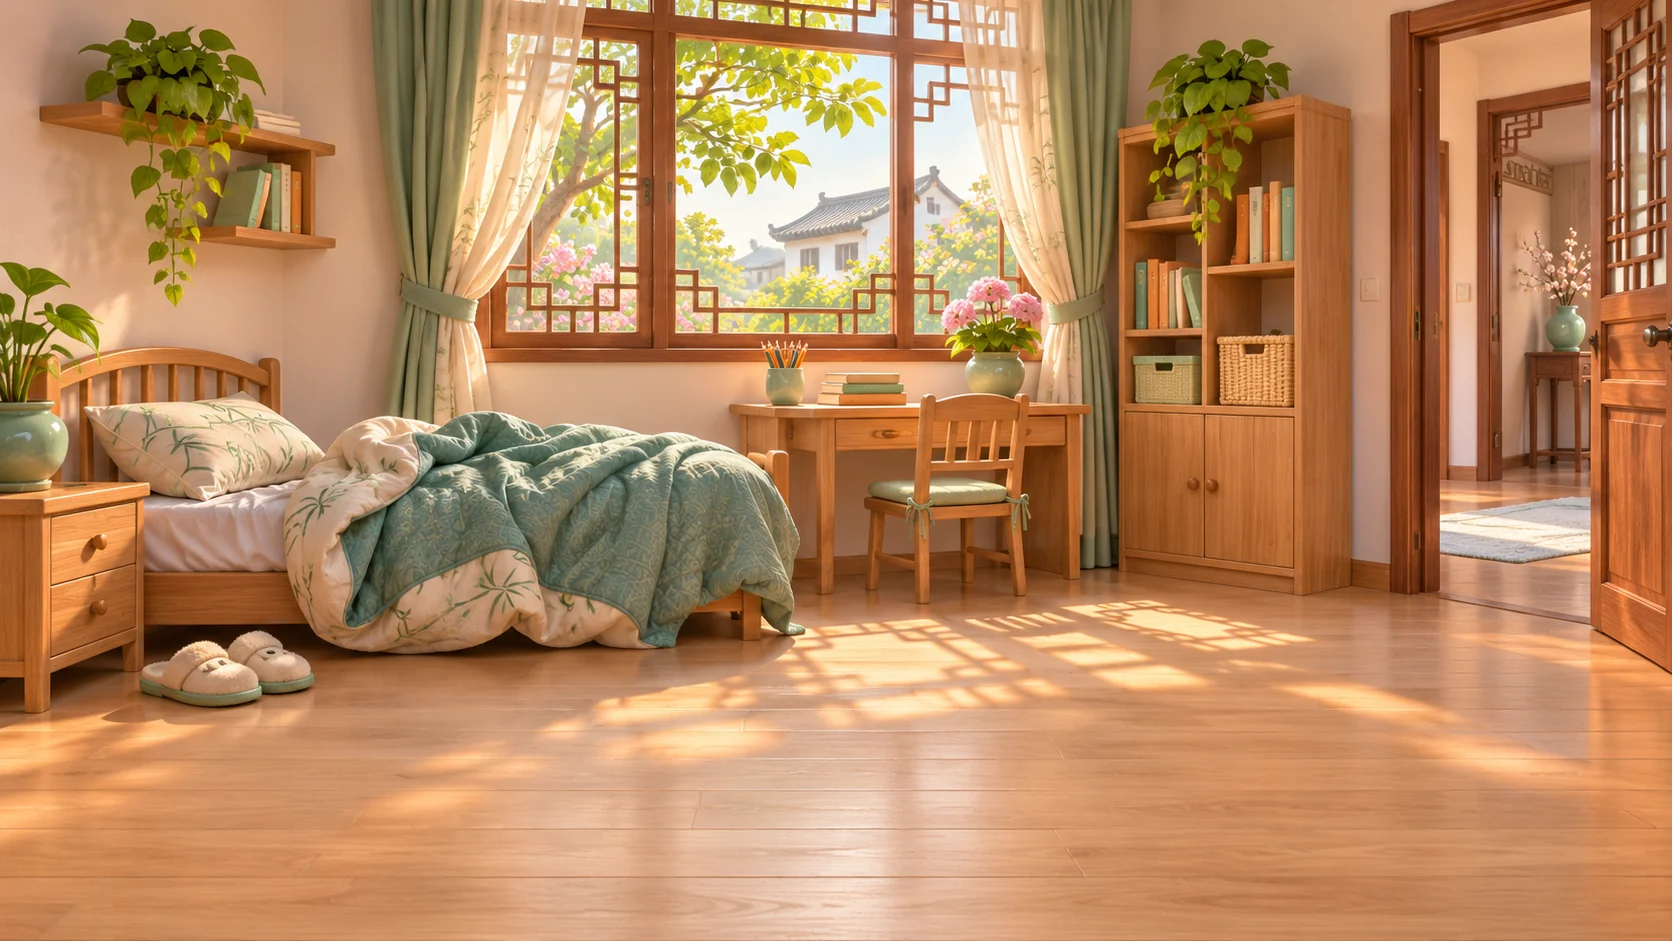
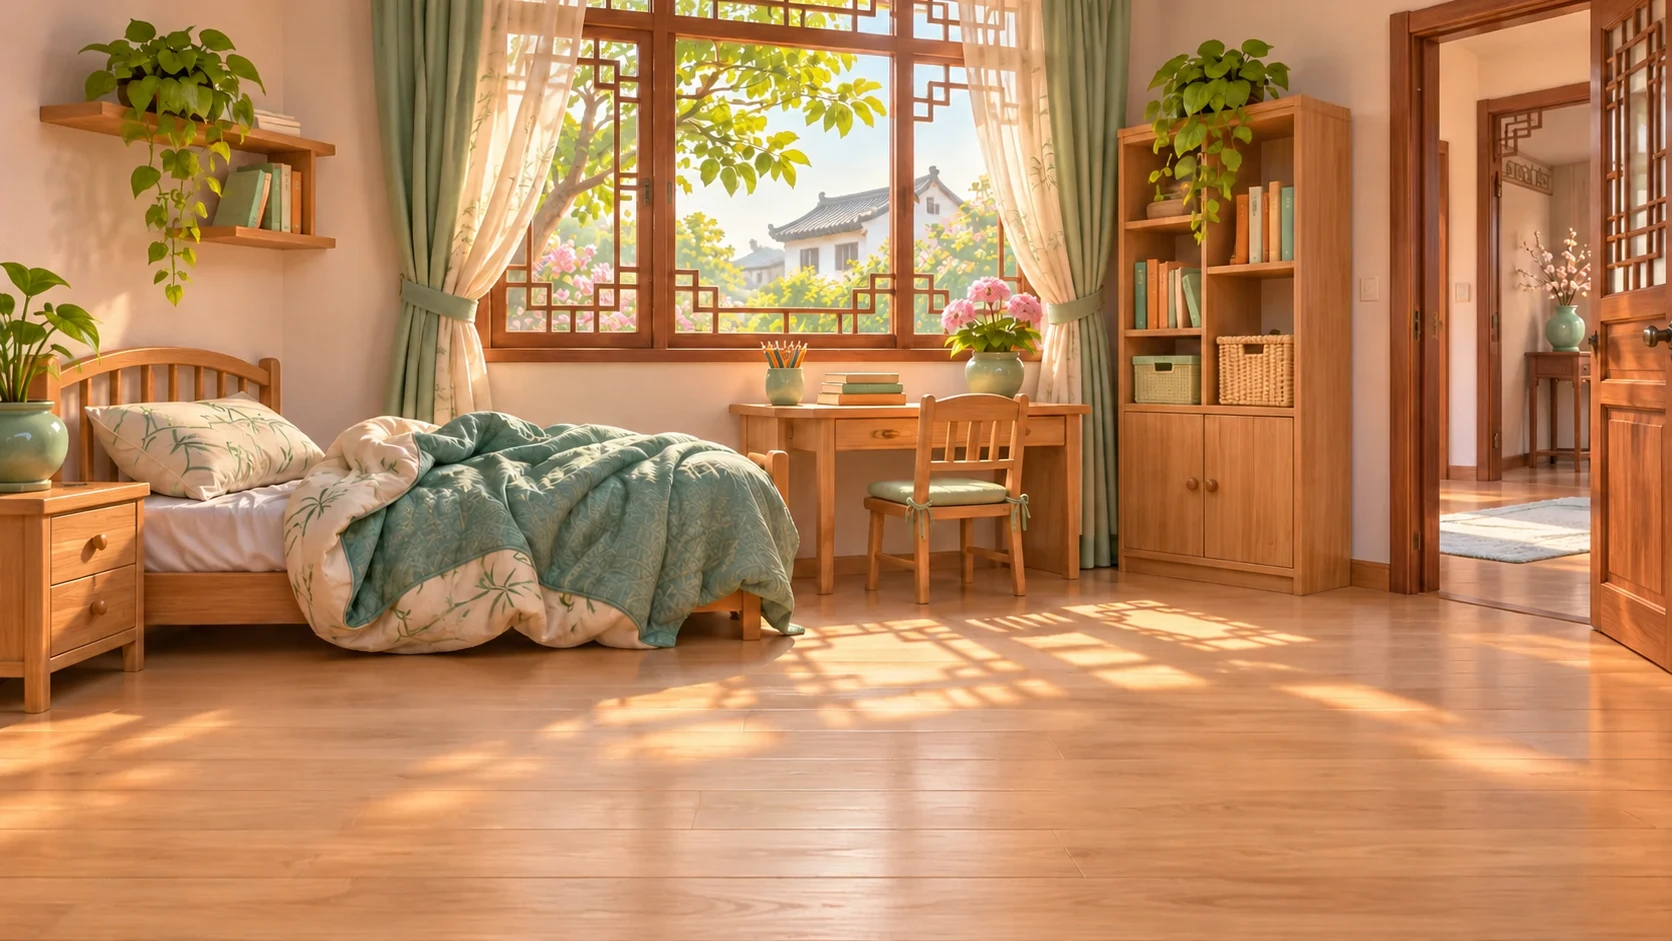
Add optional pinyin to the city tour and tidy the wake scene

diff --git a/tests/paradise-tour/ui.spec.js b/tests/paradise-tour/ui.spec.js
@@ -32,7 +32,14 @@ test('Doudou leads all four parts and only the last stop completes the island ch
   await page.evaluate(run=>localStorage.setItem('hanzi-flip.island-journeys.v1',JSON.stringify([run])),run);
   const params = new URLSearchParams({islandScenario:'city-mission',journey:run.runId,journeyCourse:JSON.stringify(course)});
   await page.goto(link+'?'+params);
+  const pinyin = page.getByRole('checkbox',{name:'拼音提示'});
+  await expect(pinyin).not.toBeChecked();
+  const questionReading = page.locator('.mission-question rt').first();
+  await expect(questionReading).toBeHidden();
+  await pinyin.check();
+  await expect(questionReading).toBeVisible();
   await solveMemory(page);
+  await expect(page.locator('#clues rt').first()).toBeVisible();
   expect(await page.evaluate(()=>JSON.parse(localStorage.getItem('hanzi-flip.island-journeys.v1'))[0].status)).toBe('active');
   await expect(page.locator('#lesson-celebration')).toHaveCount(0);
   await expect(page.locator('#next-scene')).toHaveAccessibleName('去登泰山');
@@ -49,13 +56,16 @@ test('Doudou leads all four parts and only the last stop completes the island ch
   for (const word of mountainWords) {
     await expect(map.getByRole('button')).toHaveCount(1);
     await expect(card).toHaveAccessibleName(word);
-    await expect(card).toHaveText(word);
-    if (word === '蒙特利尔') await page.screenshot({path:testInfo.outputPath('mountain.png')});
+    await expect(card.locator('rt')).not.toBeEmpty();
+    if (word === '蒙特利尔') {
+      await expect(card.locator('rt')).toBeVisible();
+      await page.screenshot({path:testInfo.outputPath('mountain.png')});
+    }
     if (word === '从') await page.emulateMedia({reducedMotion:'no-preference'});
     await card.click();
     if (word === '从') {
       await expect(card).toBeHidden();
-      await expect(card).toHaveText('北京');
+      await expect(card).toHaveAccessibleName('北京');
       await page.emulateMedia({reducedMotion:'reduce'});
     }
   }
@@ -72,6 +82,7 @@ test('Doudou leads all four parts and only the last stop completes the island ch
   for (const word of riverWords) {
     await expect(map.getByRole('button')).toHaveCount(1);
     await expect(card).toHaveAccessibleName(word);
+    await expect(card.locator('rt')).toBeVisible();
     await card.click();
   }
   expect(await robot.evaluate(node=>parseFloat(node.style.left))).toBeGreaterThan(west);
@@ -99,6 +110,9 @@ test('Doudou leads all four parts and only the last stop completes the island ch
     await expect(card.locator('rt').first()).not.toBeEmpty();
     await expect(card.locator('small[lang="en"]')).not.toBeEmpty();
     if (index === 2) {
+      await pinyin.uncheck();
+      await expect(card.locator('rt').first()).toBeHidden();
+      await expect(card.locator('small[lang="en"]')).toBeVisible();
       await expect(card).toBeInViewport({ratio:1});
       await page.screenshot({path:testInfo.outputPath('beijing.png')});
     }
@@ -117,6 +131,9 @@ test('Doudou leads all four parts and only the last stop completes the island ch
   await expect(page.getByRole('heading',{name:'四关都完成啦！'})).toBeVisible();
   await page.getByRole('button',{name:'从第一关再玩'}).click();
   await expect(page.locator('#start-mission')).toBeVisible();
+  await pinyin.check();
+  await page.reload();
+  await expect(pinyin).toBeChecked();
 });
 
 test('Doudou can still read and travel on a phone with WebGL disabled', async ({page}) => {
@@ -133,19 +150,25 @@ test('Doudou can still read and travel on a phone with WebGL disabled', async ({
   await expect(page.locator('.tour-map')).toHaveAttribute('data-renderer','flat');
   await expect(page.locator('#tour-doudou .tour-robot')).toBeVisible();
   const card = page.locator('#tour-map #tour-card');
-  await expect(card).toHaveText('从');
+  const pinyin = page.getByRole('checkbox',{name:'拼音提示'});
+  await expect(card).toHaveAccessibleName('从');
+  await expect(card.locator('rt')).toBeHidden();
+  await pinyin.check();
+  await expect(card.locator('rt')).toHaveText('cóng');
+  await expect(card.locator('rt')).toBeVisible();
   await card.press('Enter');
-  await expect(card).toHaveText('北京');
+  await expect(card).toHaveAccessibleName('北京');
   await expect(card).toBeFocused();
   for (const word of mountainWords.slice(1)) {
-    await expect(card).toHaveText(word);
+    await expect(card).toHaveAccessibleName(word);
+    await expect(card.locator('rt')).toBeVisible();
     await expect(card).toBeInViewport({ratio:1});
     await card.click();
   }
   await page.getByRole('button',{name:'关闭庆祝'}).click();
   await page.getByRole('button',{name:'去游长江'}).click();
   for (const word of riverWords) {
-    await expect(card).toHaveText(word);
+    await expect(card).toHaveAccessibleName(word);
     await card.click();
   }
   await page.getByRole('button',{name:'去北京城'}).click();

diff --git a/src/city-tour-data.js b/src/city-tour-data.js
@@ -8,7 +8,10 @@ export const CITY_TOUR_STAGES = [
 export const READING_ROUTES = {
   mountain: {
     landmarks: ['山脚', '南天门'],
-    words: ['从', '北京', '来', '上海', '义乌', '悉尼', '蒙特利尔', '纽约', '温哥华', '巴黎', '登', '泰山'],
+    words: [
+      ['从','cóng'], ['北京','Běijīng'], ['来','lái'], ['上海','Shànghǎi'], ['义乌','Yìwū'], ['悉尼','Xīní'],
+      ['蒙特利尔','Méngtèlì’ěr'], ['纽约','Niǔyuē'], ['温哥华','Wēngēhuá'], ['巴黎','Bālí'], ['登','dēng'], ['泰山','Tàishān'],
+    ],
     points: [[19,96],[26,91],[32,86],[38,81],[44,76],[49,72],[54,68],[59,63],[63,58],[68,51],[74,44],[79,36],[85,29]],
     instruction: '读完石阶上的字词，点词牌往上走。',
     arrival: '登顶啦！',
@@ -17,7 +20,11 @@ export const READING_ROUTES = {
   },
   river: {
     landmarks: ['西 · 长江源头', '东 · 东海'],
-    words: ['游', '长江', '哪', '国', '人', '中国', '美国', '澳大利亚', '加拿大', '英国', '法国', '汤加', '哥伦比亚'],
+    words: [
+      ['游','yóu'], ['长江','Chángjiāng'], ['哪','nǎ'], ['国','guó'], ['人','rén'], ['中国','Zhōngguó'],
+      ['美国','Měiguó'], ['澳大利亚','Àodàlìyà'], ['加拿大','Jiānádà'], ['英国','Yīngguó'],
+      ['法国','Fǎguó'], ['汤加','Tāngjiā'], ['哥伦比亚','Gēlúnbǐyà'],
+    ],
     points: [[5,39],[8,42],[11,47],[13,55],[17,61],[23,64],[30,58],[37,53],[44,52],[51,57],[62,50],[73,54],[84,53],[96,48]],
     instruction: '读完江边的字词，点词牌让小船往东走。',
     arrival: '到东海啦！',

diff --git a/src/city-exploration.css b/src/city-exploration.css
@@ -7,7 +7,10 @@ button, a { touch-action: manipulation; }
 button { font: inherit; cursor: pointer; }
 button:focus-visible, a:focus-visible { outline: 3px solid #a65a10; outline-offset: 3px; }
 .city-page { width: min(1024px, calc(100% - 32px)); margin: 0 auto; padding: 24px 0 48px; }
-.city-header { display: flex; justify-content: space-between; gap: 12px; flex-wrap: wrap; font-weight: 650; }
+.city-header { display: flex; justify-content: space-between; align-items: center; gap: 8px 16px; flex-wrap: wrap; font-weight: 650; }
+.city-pinyin-toggle { display: inline-flex; align-items: center; gap: 6px; min-height: 44px; padding: 6px 12px; border: 1px solid #b7d3c5; border-radius: 9px; background: #fff; cursor: pointer; }
+.city-pinyin-toggle input { accent-color: #136754; margin: 0; }
+.city-page[data-pinyin="off"] rt { display: none; }
 h1 { margin: 24px 0 14px; font-size: clamp(2rem, 5vw, 3.2rem); }
 h2, p { margin: 0; }
 .scene-nav, .city-choices, .city-actions { display: flex; flex-wrap: wrap; gap: 9px; }

diff --git a/city.html b/city.html
@@ -6,10 +6,11 @@
   <title>豆豆游中国 · 汉语乐园 2A</title>
 </head>
 <body>
-  <main class="city-page">
+  <main class="city-page" data-pinyin="off">
     <header class="city-header">
       <a href="./?mode=explore&amp;source=paradise&amp;stage=2A&amp;lesson=2" aria-label="返回情景探索">← <ruby>返回<rt>Fǎnhuí</rt></ruby><ruby>情景探索<rt>qíngjǐng tànsuǒ</rt></ruby><small lang="en">Back to scenarios</small></a>
       <span><ruby>汉语乐园<rt>Hànyǔ Lèyuán</rt></ruby> 2A · <ruby>第<rt>Dì</rt></ruby>2<ruby>课<rt>kè</rt></ruby></span>
+      <label class="city-pinyin-toggle"><input id="city-pinyin" type="checkbox"> 拼音提示</label>
     </header>
     <h1><ruby>豆豆游中国<rt>Dòudou yóu Zhōngguó</rt></ruby><small lang="en">Doudou Explores China</small></h1>
     <ol id="city-tour-nav" class="tour-nav" aria-label="四关路线"></ol>

diff --git a/src/city-exploration.js b/src/city-exploration.js
@@ -10,6 +10,17 @@ const islandJourney=bindExplorationJourney('city-mission');
 islandJourney.decorate();
 
 const byId = id => document.getElementById(id);
+const pinyinToggle = byId('city-pinyin');
+const pinyinPreference = 'hanzi-flip.city-pinyin';
+try { pinyinToggle.checked = localStorage.getItem(pinyinPreference) === 'on'; } catch { /* Storage may be blocked. */ }
+function showPinyin() {
+  pinyinToggle.closest('.city-page').dataset.pinyin = pinyinToggle.checked ? 'on' : 'off';
+}
+pinyinToggle.addEventListener('change', () => {
+  showPinyin();
+  try { localStorage.setItem(pinyinPreference, pinyinToggle.checked ? 'on' : 'off'); } catch { /* Keep the in-page choice. */ }
+});
+showPinyin();
 const choices = byId('choices');
 const showClue = byId('show-clue');
 const next = byId('next-scene');

diff --git a/src/city-tour.js b/src/city-tour.js
@@ -107,7 +107,8 @@ export function mountCityTour(root, {onStage, onFinish, onRestart}) {
   function showRouteWord(route) {
     showPoints(index);
     counter.textContent = index + ' / ' + route.words.length;
-    showCard(points[index + 1], route.words[index], 'word');
+    const [word, pinyin] = route.words[index];
+    showCard(points[index + 1], word, 'word', ruby(word, pinyin));
   }
 
   function advanceRoute(route) {

diff --git a/src/city-tour.css b/src/city-tour.css
@@ -19,7 +19,7 @@
   position: relative;
   isolation: isolate;
   width: min(100%,1120px);
-  width: min(100%,1120px,max(660px,calc(200svh - 580px)));
+  width: min(100%,1120px,max(660px,calc(200svh - 620px)));
   aspect-ratio: 2;
   margin-inline: auto;
   background-image: url('./city-tour-atlas.webp');
